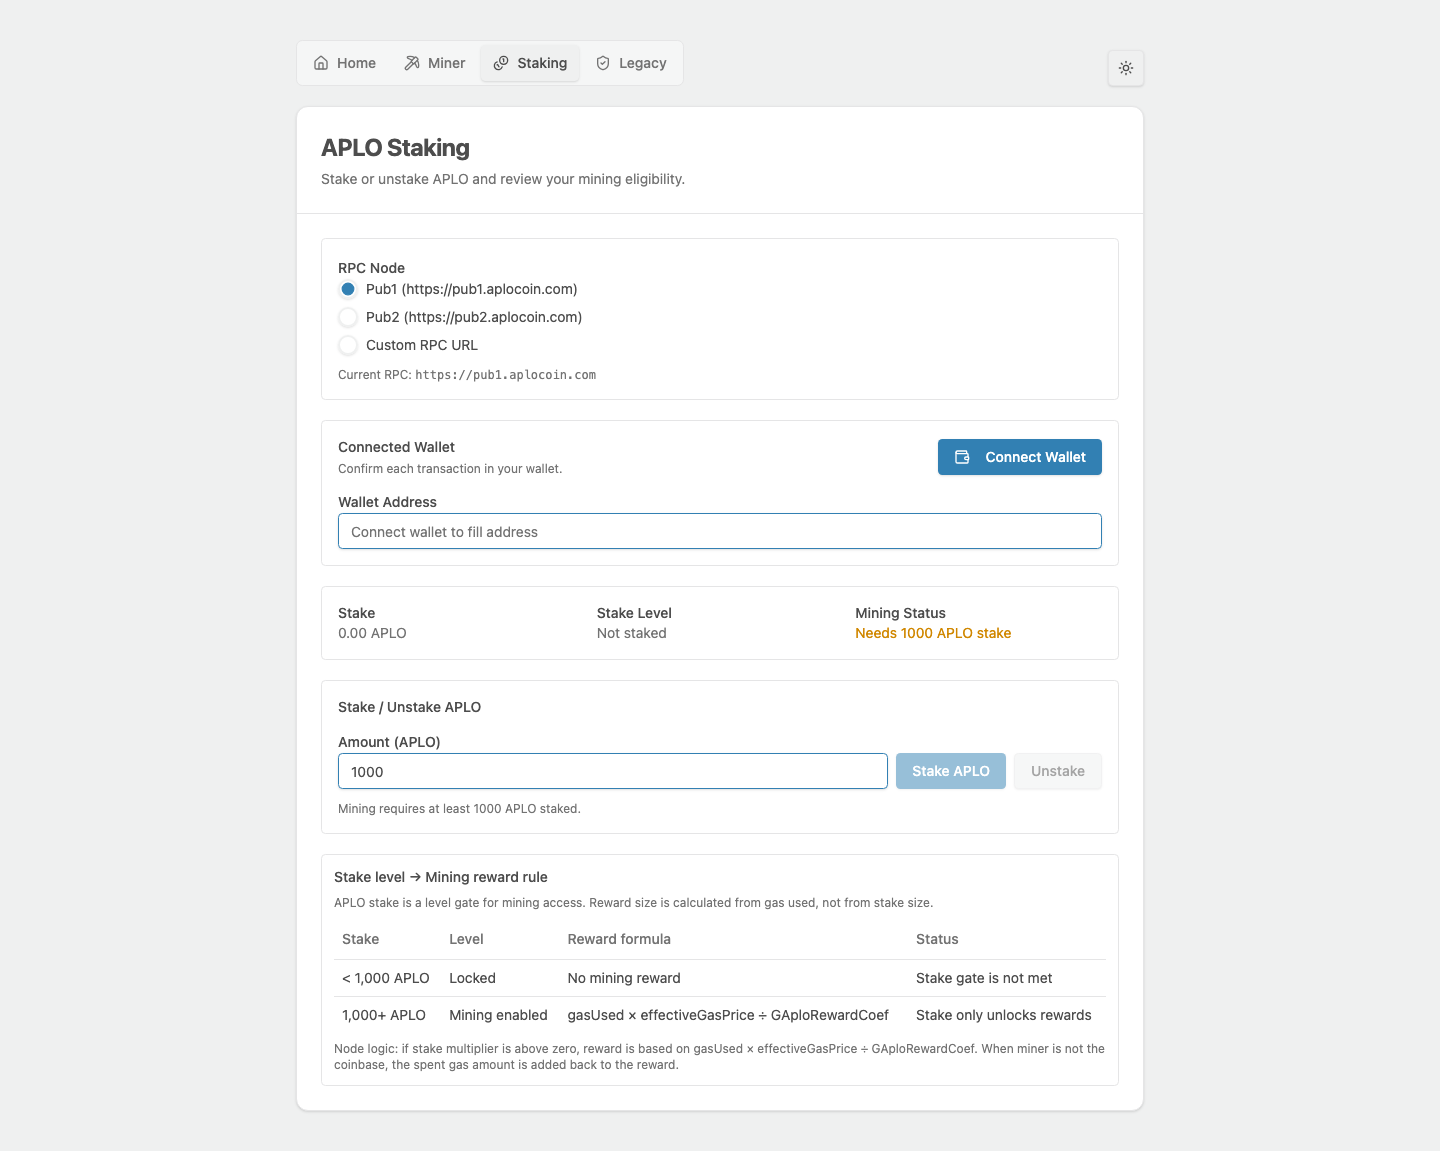
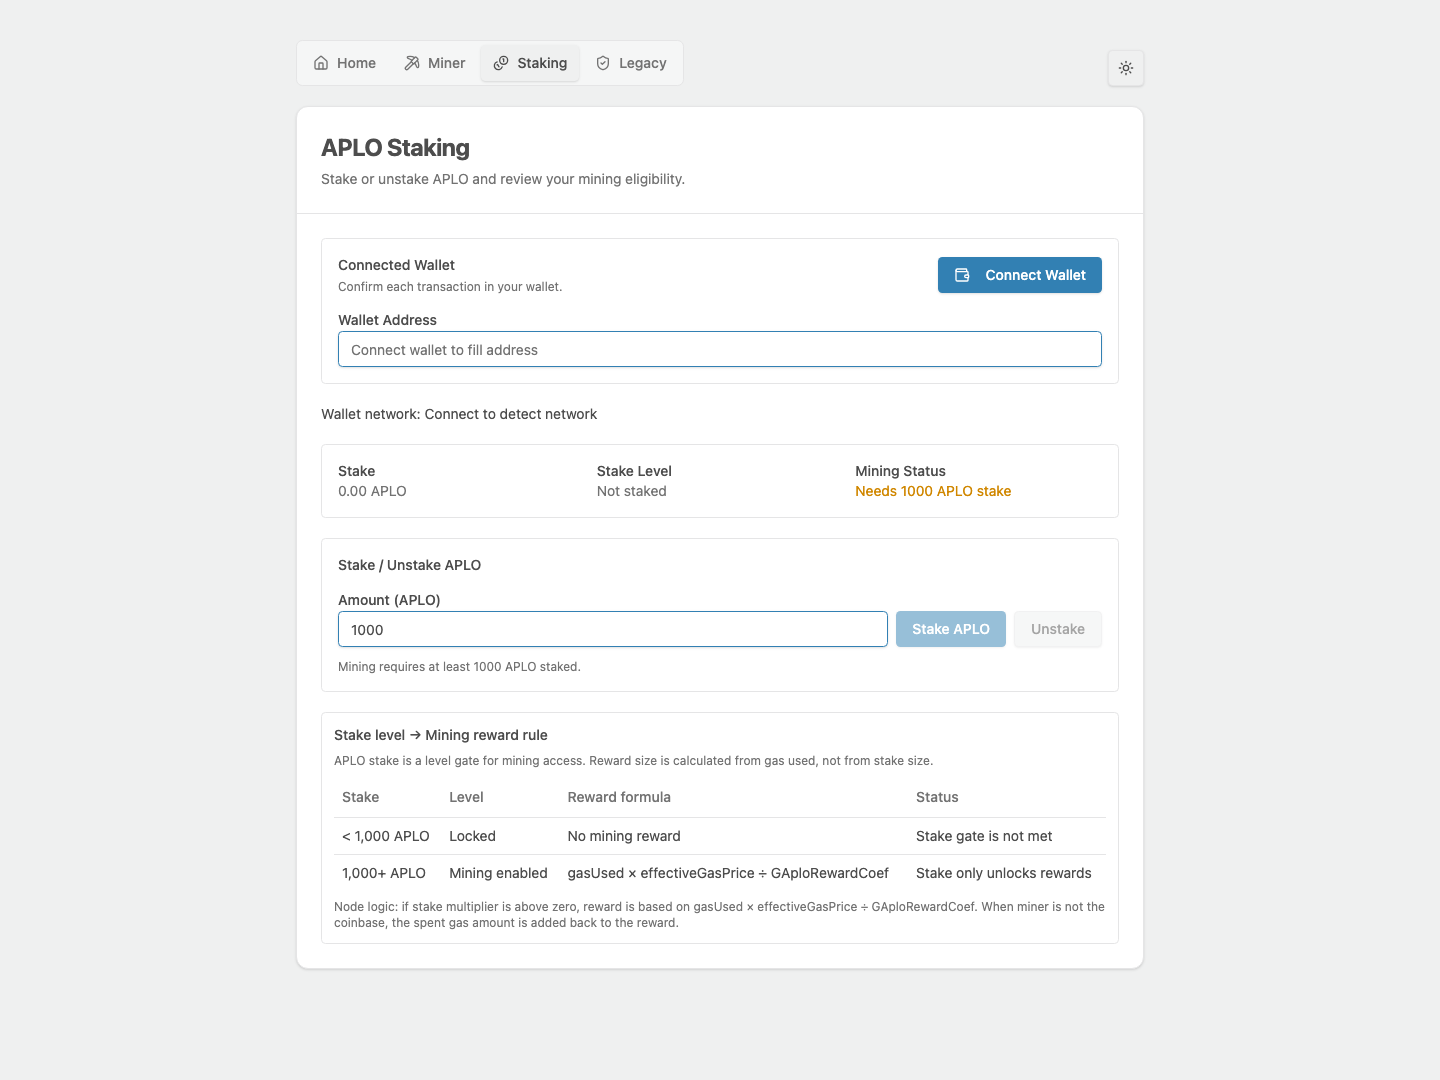
docs: refresh wallet-driven staking screenshots and RPC guidance

diff --git a/README.md b/README.md
@@ -78,7 +78,7 @@ Captured from the production static export in Chromium, with an empty key and no
 
 ## RPC node configuration
 
-All workflow pages reuse the saved RPC selection:
+Current and legacy mining reuse the saved RPC selection; staking uses the wallet provider:
 
 | Option | URL |
 | --- | --- |
